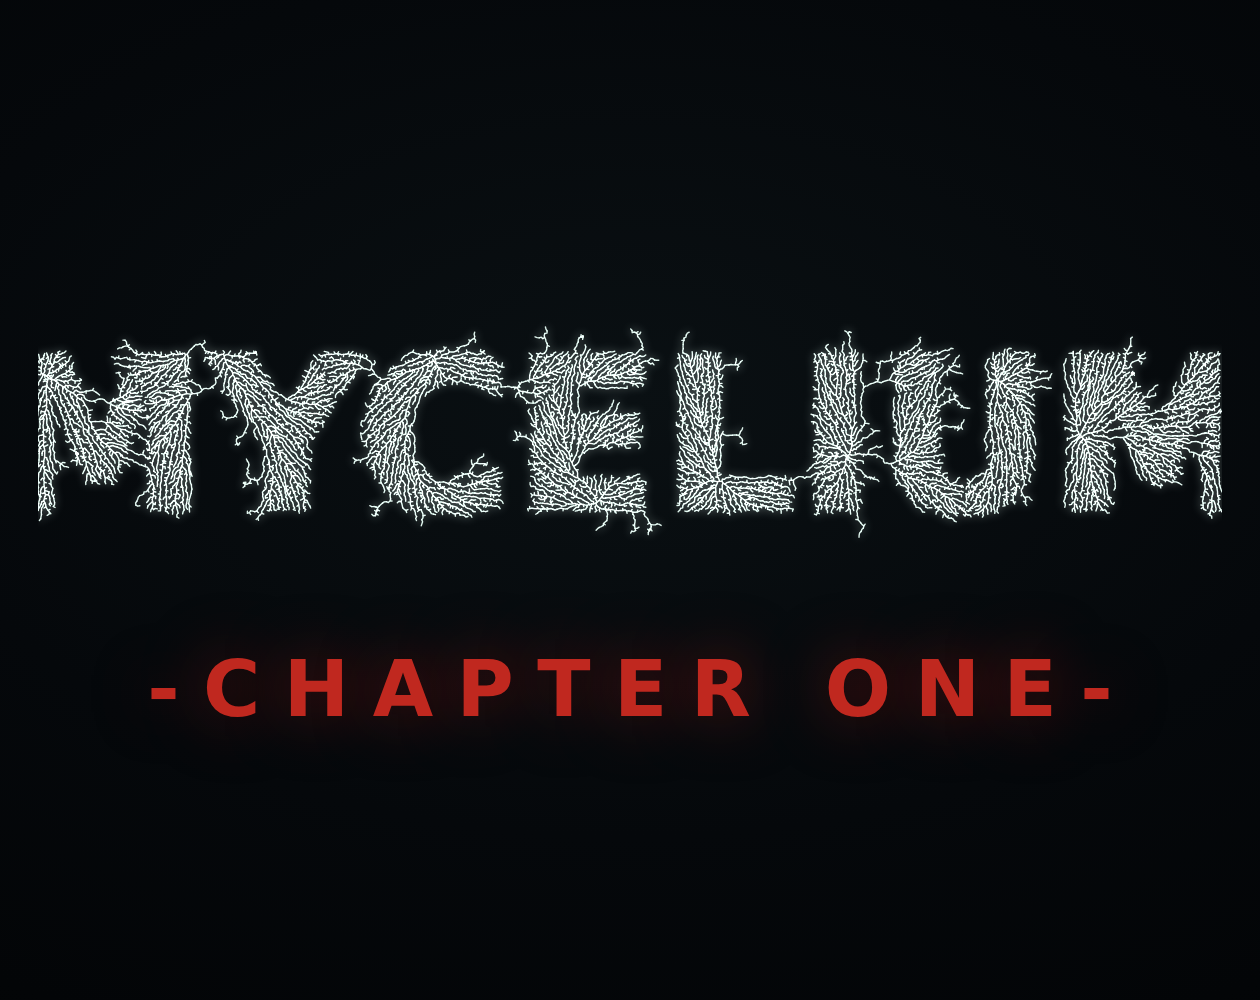
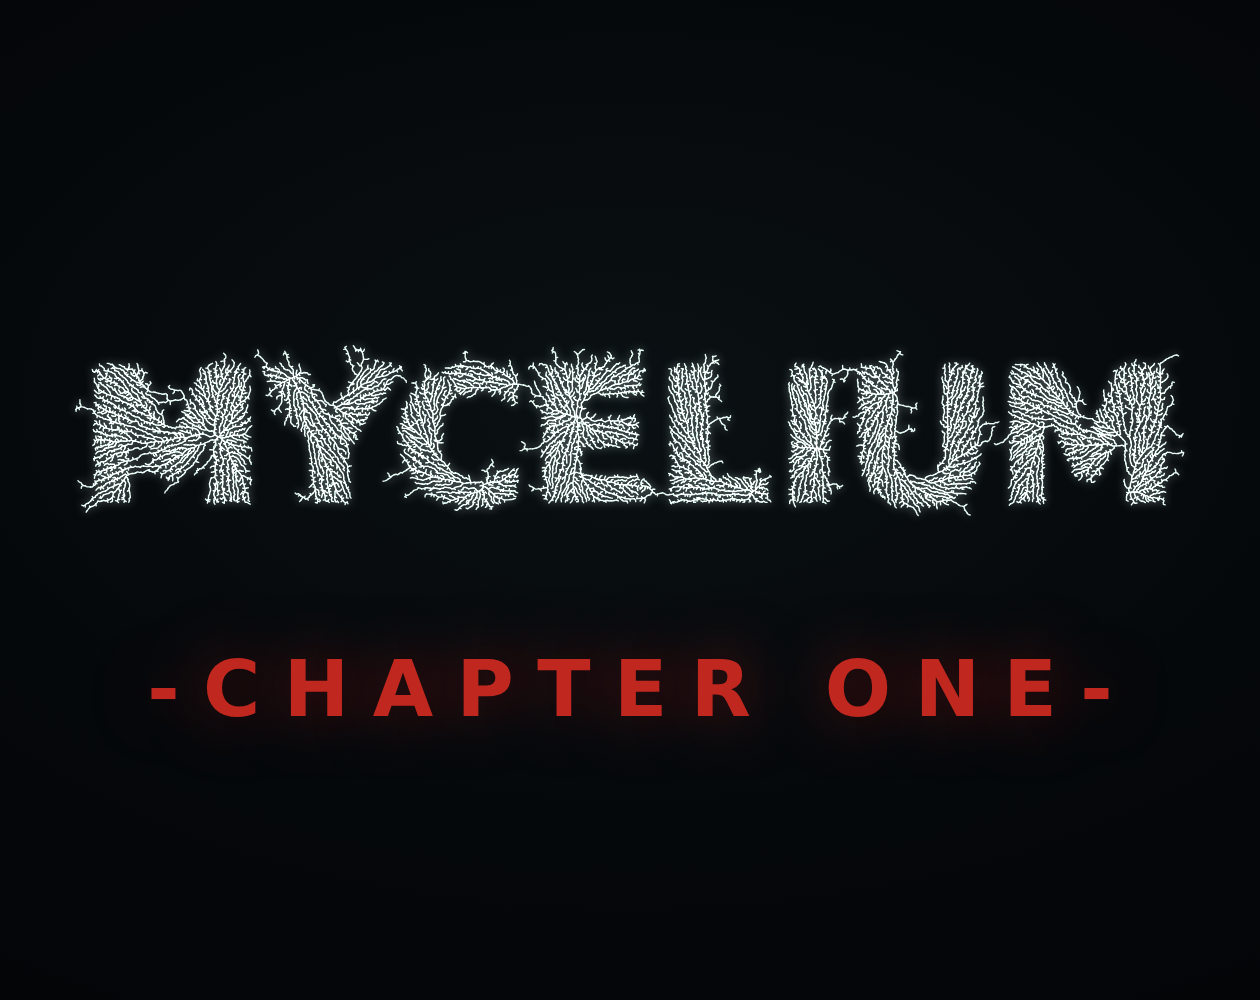
title card: stop the M's clipping at the frame edges
growMyceliumTitle's seed() sprays 150 chains of attractors OUTWARD from the
glyph edge and the mat follows them, so the DRAWN ink is wider than the text
box the font size was picked from. The game's canvas is full-viewport and has
room for that overspill; this card's box does not, so at the game's 0.9 width
factor the outer strokes of both M's ran off the sides.

Measured ink-to-canvas-edge gaps (alpha >= 24) at 630x500 / 900x900:
0.9 and 0.86 touch both edges (0px), 0.82 is marginal (1px on the left),
0.78 clears at 17/15 and 22/28. 1280x720 resolves height-limited and was
never clipped, which is why it looked fine there.

Exports re-rendered at 630x500 and 1260x1000.

Claude-Session: https://claude.ai/code/session_0166G29fcerWBCZA8hQ2o5zX

Changed region(s): [[0.031, 0.341, 0.9905, 0.527]]

diff --git a/docs/title-card.html b/docs/title-card.html
@@ -24,8 +24,14 @@
   /* The wordmark's canvas takes its size from this box — growMyceliumTitle reads the container's
      rect and picks a font size from it, so the box IS the layout. */
   /* Sized so `titleSize` lands WIDTH-limited, as it does on the real title screen where the
-     canvas is full-viewport: min(H*0.72, (W*0.9)/(8*0.62)). A shorter box makes it height-limited
-     and the word comes out two-thirds the size (155px against the game's 232 at 1280x720). */
+     canvas is full-viewport: min(H*0.72, (W*0.78)/(8*0.62)). A shorter box makes it height-limited
+     and the word comes out two-thirds the size (155px against the game's 232 at 1280x720).
+     THE WIDTH FACTOR IS 0.78, NOT THE GAME'S 0.9, AND THAT IS THE M-CLIPPING FIX. `seed()`
+     sprays 150 chains of attractors OUTWARD from the glyph edge and the mat follows them, so the
+     DRAWN ink is wider than the text box — the factor has to leave room for the overspill, which
+     the game's full-viewport canvas has and this box does not. Measured ink-to-edge gaps at
+     630x500 / 900x900: 0.9 and 0.86 both touch both edges (0px), 0.82 is marginal (1px left),
+     0.78 clears at 17/15 and 22/28. Raising it back is how the M's lose their outer strokes. */
   #word { width: min(1240px, 94vw); height: clamp(150px, 36vh, 360px); }
   .lines { display: flex; flex-direction: column; align-items: center; gap: clamp(6px, 1.4vh, 14px);
            opacity: 0; transition: opacity 900ms ease; }
@@ -232,7 +238,7 @@
       canvas.width = Math.round(W * dpr); canvas.height = Math.round(H * dpr);
       ink = document.createElement('canvas'); ink.width = canvas.width; ink.height = canvas.height;
       ictx = ink.getContext('2d');
-      titleSize = Math.min(H * 0.72, (W * 0.9) / (WORD.length * 0.62));
+      titleSize = Math.min(H * 0.72, (W * 0.78) / (WORD.length * 0.62));
       cx = W / 2; cy = H * 0.52;
       seed(); composite();
     }
